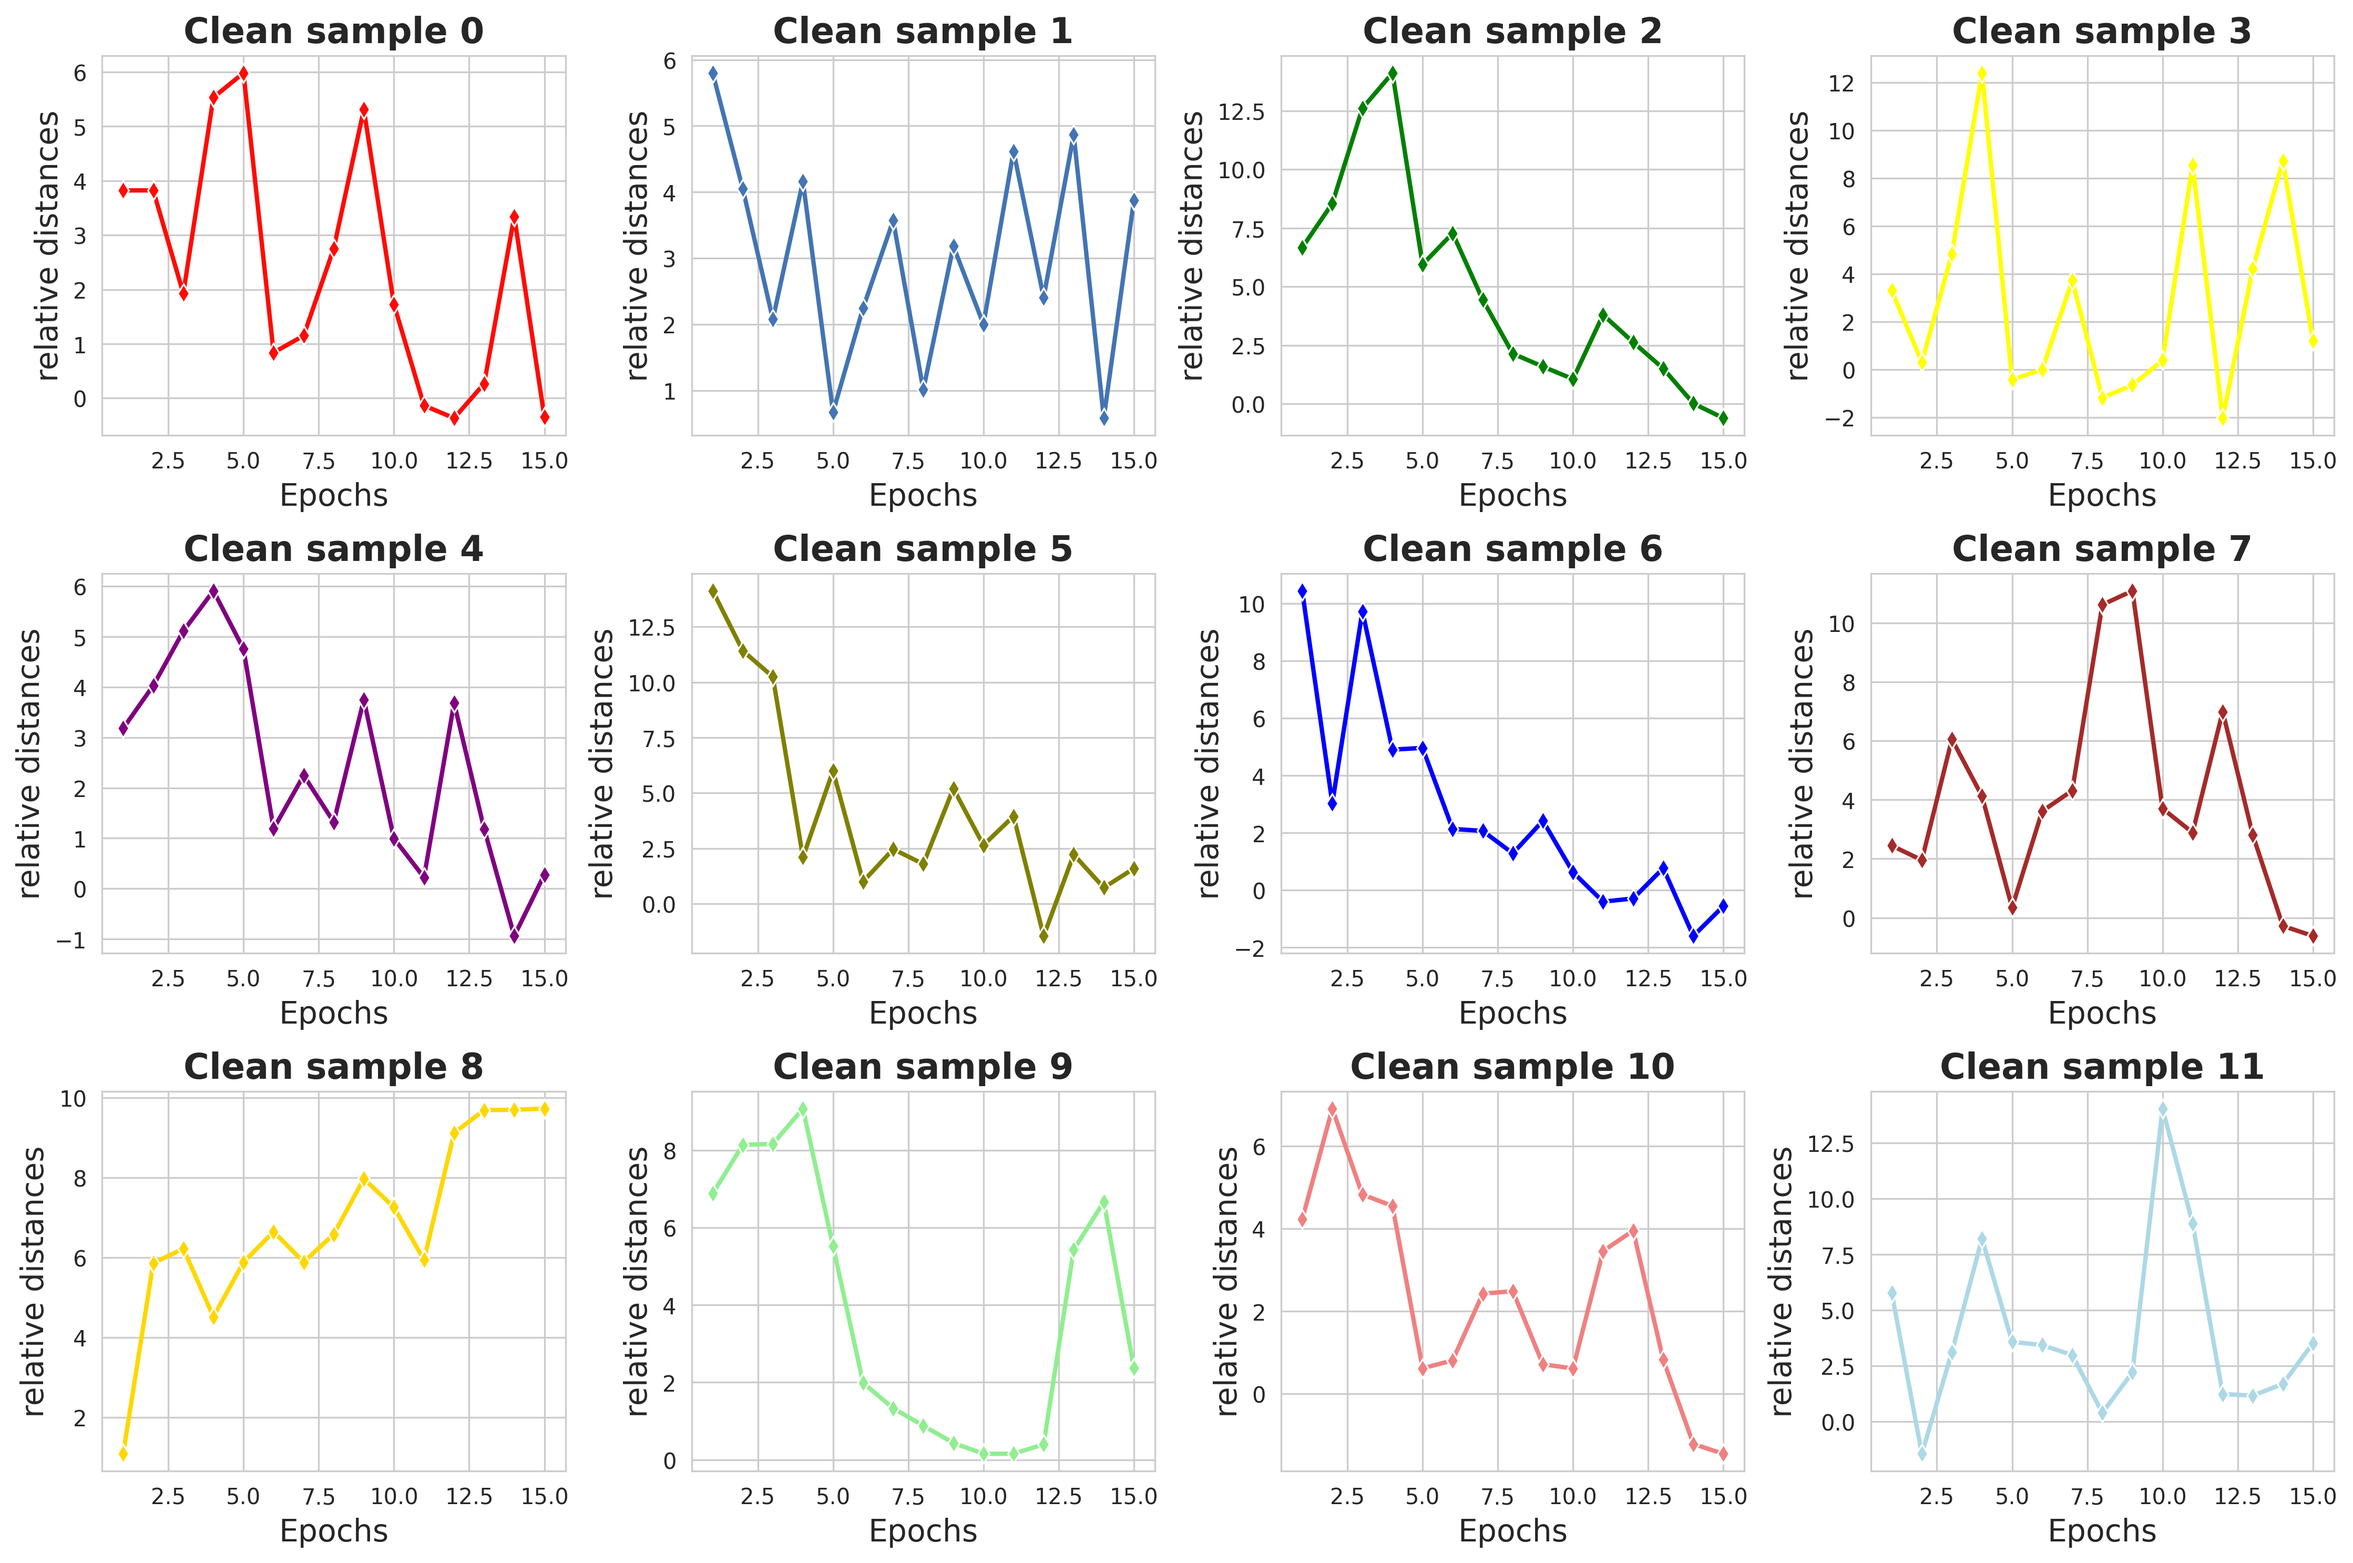
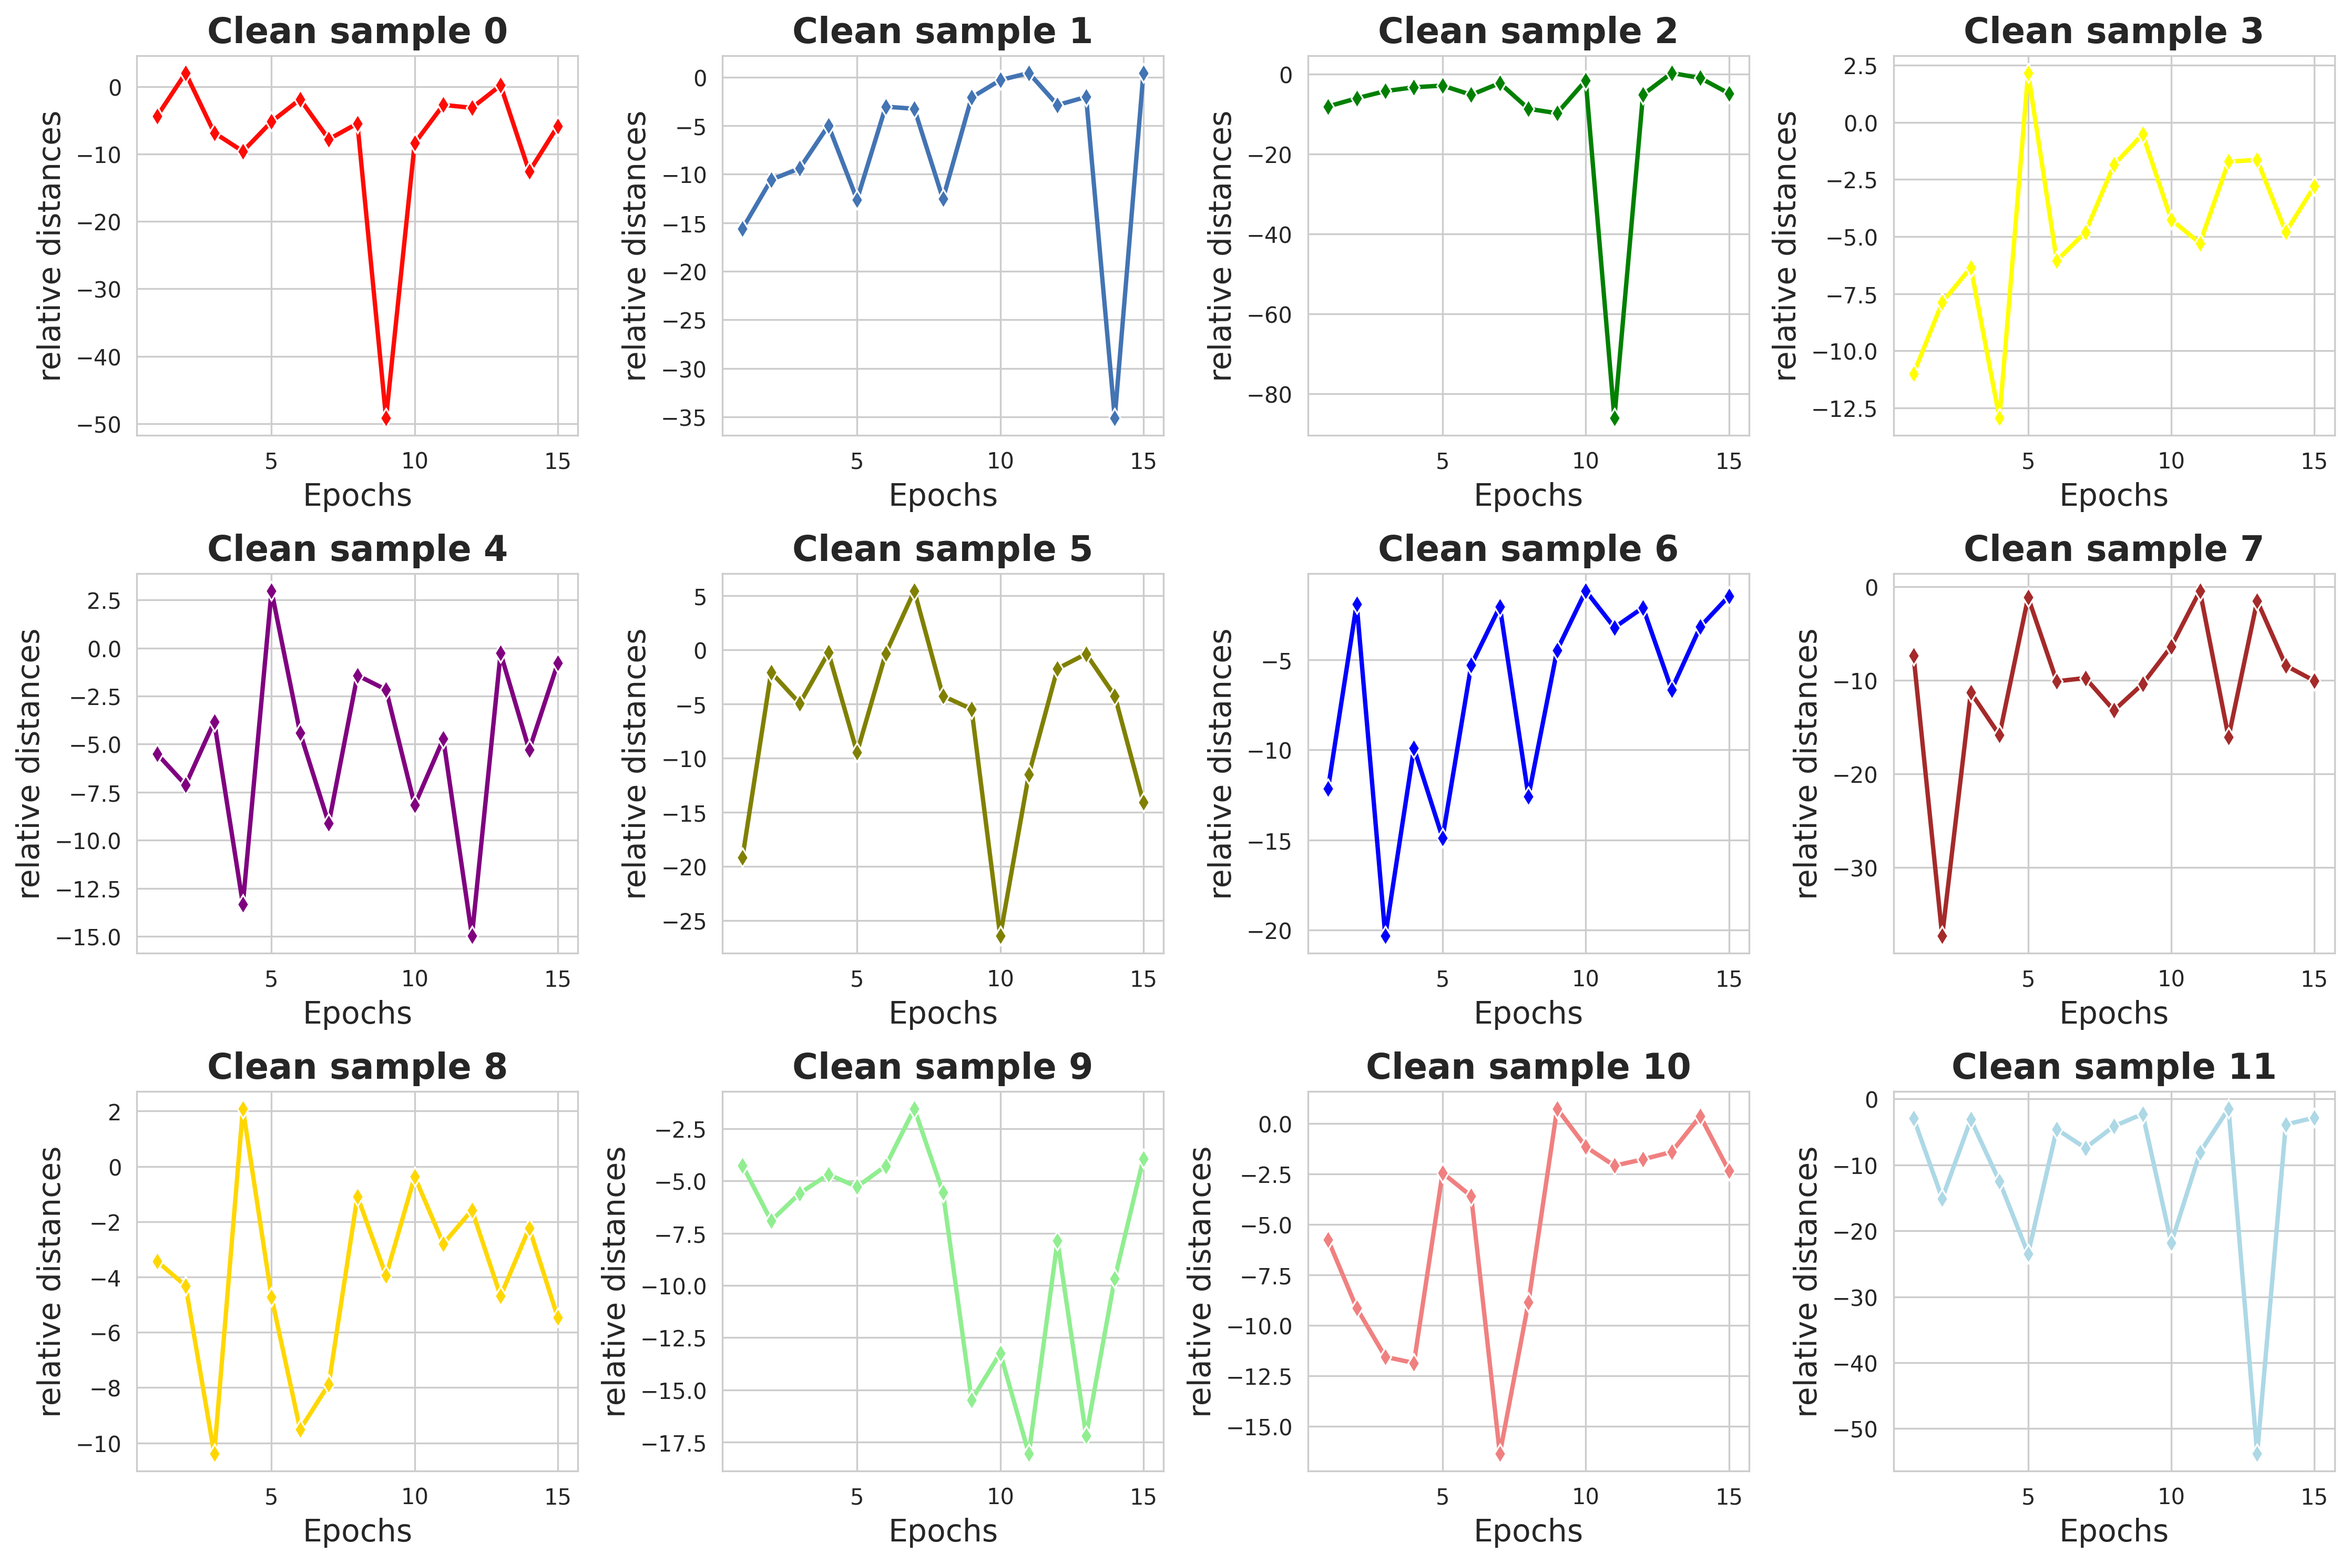
added experimental results

diff --git a/NoiseDataset.py b/NoiseDataset.py
@@ -183,14 +183,15 @@ class NoisyLabelsDatasetManager(Dataset):
     def get_corrupted_indices(self):
         return self.corrupted_indices
     
-    def take_first_n_noise_samples(self, n):
-        # Calcola gli indici dei campioni in cui l'etichetta reale non corrisponde all'etichetta falsa
-        matching_indices = np.where(self.real_labels != self.fake_labels)[0][:n]
+    def take_random_n_noise_samples(self, n):
+        # Seleziona casualmente n campioni in cui l'etichetta reale non corrisponde a quella falsa
+        matching_indices = np.where(self.real_labels != self.fake_labels)[0]
+        selected_indices = np.random.choice(matching_indices, size=n, replace=False)
         
         # Prepara i dati e le etichette per i campioni selezionati
-        selected_data = [self.dataset[i][0] for i in matching_indices]
-        selected_real_labels = self.real_labels[matching_indices]
-        selected_fake_labels = self.fake_labels[matching_indices]
+        selected_data = [self.dataset[i][0] for i in selected_indices]
+        selected_real_labels = self.real_labels[selected_indices]
+        selected_fake_labels = self.fake_labels[selected_indices]
         
         # Converte le etichette in tensori di PyTorch
         selected_real_labels_tensor = torch.tensor(selected_real_labels, dtype=torch.long)
@@ -201,14 +202,15 @@ class NoisyLabelsDatasetManager(Dataset):
         
         return selected_dataset
     
-    def take_first_n_clean_samples(self, n):
-        # Calcola gli indici dei campioni in cui l'etichetta reale non corrisponde all'etichetta falsa
-        matching_indices = np.where(self.real_labels == self.fake_labels)[0][:n]
+    def take_random_n_clean_samples(self, n):
+        # Seleziona casualmente n campioni in cui l'etichetta reale corrisponde a quella falsa
+        matching_indices = np.where(self.real_labels == self.fake_labels)[0]
+        selected_indices = np.random.choice(matching_indices, size=n, replace=False)
         
         # Prepara i dati e le etichette per i campioni selezionati
-        selected_data = [self.dataset[i][0] for i in matching_indices]
-        selected_real_labels = self.real_labels[matching_indices]
-        selected_fake_labels = self.fake_labels[matching_indices]
+        selected_data = [self.dataset[i][0] for i in selected_indices]
+        selected_real_labels = self.real_labels[selected_indices]
+        selected_fake_labels = self.fake_labels[selected_indices]
         
         # Converte le etichette in tensori di PyTorch
         selected_real_labels_tensor = torch.tensor(selected_real_labels, dtype=torch.long)
@@ -218,7 +220,7 @@ class NoisyLabelsDatasetManager(Dataset):
         selected_dataset = NoisyLabelsDataset(dataset=selected_data, real_labels=selected_real_labels_tensor, fake_labels=selected_fake_labels_tensor)
         
         return selected_dataset
-
+    
     def divide_samples(self):
         # Split the dataset into two: one where real_label == fake_label and another where they don't match
         matching_indices = np.where(self.real_labels == self.fake_labels)[0]
@@ -408,6 +410,58 @@ def compute_label_coherence_score(model, mu_c_tensor, dataloader, norm_factor):
             d_min, _ = torch.min(d_remaining, dim=1)  # find the minimum distance centroid from the remaining ones
         
             coherence_count += (d_min == real_centroid_distances).sum().item()
+
+    return coherence_count / norm_factor
+
+def compute_label_coherence_for_noisy_outliers(model, mu_c_tensor, dataloader):
+    global features
+    features = FeaturesHook()
+
+    # Aggiungi l'hook al penultimo layer del modello
+    handle_F = select_model(mode)
+    coherence_count=0
+    num_classes = len(mu_c_tensor)
+    norm_factor=0
+
+    model.eval()
+    for idx, (inputs, targets) in enumerate(dataloader):
+        with torch.no_grad():
+            inputs = inputs.to(device)
+            fake_targets = targets[:,1:,:].squeeze().to(device)
+            real_targets = targets[:,:1,:].squeeze().to(device)
+            outputs = model(inputs)
+
+            features_batch = features.features_F[-1].squeeze()
+            batch_size=len(features_batch)
+
+            # Reset delle liste di features per il prossimo batch
+            features.features_F = []
+            features.clear()
+
+            distances = torch.cdist(features_batch, mu_c_tensor)  # calcola tensore delle distanze [B,classes]
+            
+            centroid_distance = distances[torch.arange(batch_size), fake_targets]  # take distance from 'fake' label class centoroid
+            real_centroid_distances = distances[torch.arange(batch_size), real_targets] # take distance from real label class centoroid
+            
+            mask = torch.ones(distances.shape, dtype=bool)
+            mask[torch.arange(batch_size), fake_targets] = False  # create a mask for deleting extracted label centroid distances
+            d_remaining = distances[mask].view(batch_size, num_classes-1) # take the rest of distances
+            d_min, _ = torch.min(d_remaining, dim=1)  # find the minimum distance centroid from the remaining ones
+
+            distance_batch= d_min - centroid_distance
+
+            # Select only samples where the difference is greater than 0
+            valid_samples_mask = distance_batch < 0
+            valid_real_centroid_distances = real_centroid_distances[valid_samples_mask]
+
+            # Update the coherence count by comparing real centroid distances with the minimum distances
+            coherence_count += (d_min[valid_samples_mask] == valid_real_centroid_distances).sum().item()
+
+            # Update the normalization factor based on the number of valid samples
+            norm_factor += valid_samples_mask.sum().item()
+
+    # Return the coherence count normalized by the number of valid samples
+    return coherence_count / norm_factor if norm_factor > 0 else 0
 
     return coherence_count / norm_factor
 
@@ -719,7 +773,7 @@ def get_distance_n_noisy_samples(n,model,train_dataset, mu_c_train):
     handle_F = select_model(mode)
     
     # Take first n noisy samples from trainining dataset
-    tracked_noise_samples= train_dataset.take_first_n_noise_samples(n)
+    tracked_noise_samples= train_dataset.take_random_n_noise_samples(n)
     tracked_noise_samples_loader=DataLoader(tracked_noise_samples, batch_size=1, num_workers=2)
 
     # foreach sample take its features and compute relative distance ( real - fake )
@@ -741,7 +795,7 @@ def get_distance_n_noisy_samples(n,model,train_dataset, mu_c_train):
                 dist[i]=torch.dist(current_features_F,mu_c_train[i]).item()
             near_centroid_dist=min(dist, key=lambda x: dist[x])
 
-            distance_dict[str(idx)]=  torch.dist(current_features_F,mu_c_train[y_fake.item()]).item() - near_centroid_dist 
+            distance_dict[str(idx)] = near_centroid_dist - torch.dist(current_features_F,mu_c_train[y_fake.item()]).item()
             
             features.clear()
 
@@ -763,7 +817,7 @@ def get_distance_n_samples(n,model,train_dataset, mu_c_train):
     handle_F = select_model(mode)
     
     # Take first n noisy samples from trainining dataset
-    tracked_clean_samples= train_dataset.take_first_n_clean_samples(n)
+    tracked_clean_samples= train_dataset.take_random_n_clean_samples(n)
     tracked_clean_samples_loader=DataLoader(tracked_clean_samples, batch_size=1, num_workers=2)
 
     # foreach sample take its features and compute relative distance ( real - fake )
@@ -774,7 +828,7 @@ def get_distance_n_samples(n,model,train_dataset, mu_c_train):
             y_real = targets[:,:1,:].squeeze().to(device)
             y_fake = targets[:,1:,:].squeeze().to(device)
             if y_fake != y_real:
-                raise ValueError("Bad extraction in  'take_first_n_clean_samples' function")
+                raise ValueError("Bad extraction in  'take_random_n_clean_samples' function")
             inputs = inputs.to(device)
             outputs = model(inputs)
             current_features_F = features.features_F[-1].squeeze()
@@ -785,7 +839,7 @@ def get_distance_n_samples(n,model,train_dataset, mu_c_train):
                 dist[i]=torch.dist(current_features_F,mu_c_train[i]).item()
             near_centroid_dist=min(dist, key=lambda x: dist[x])
 
-            distance_dict[str(idx)]=  torch.dist(current_features_F,mu_c_train[y_real.item()]).item() - near_centroid_dist
+            distance_dict[str(idx)]=  near_centroid_dist - torch.dist(current_features_F,mu_c_train[y_real.item()]).item()
             features.clear()
 
     return distance_dict
@@ -1096,25 +1150,38 @@ def show_centroid_distances(weighted_dist, normal_dist,mode,version,dataset_name
 
 def show_noise_coherence(info_dict, mode, version, dataset_name):
     sns.set_style("whitegrid")  # Stile con griglia bianca
-    sns.set_palette("Set2")  
-    fig, ax = plt.subplots(1, 1, figsize=(12, 10))  
+    sns.set_palette("Set2")  # Set palette per i colori
 
-    # Disegna la coerenza sul singolo asse
+    plt.figure(figsize=(10, 6))  # Definisci una figura di dimensioni appropriate
+
+    # Linea per la coerenza dei campioni rumorosi
     sns.lineplot(x=np.arange(1, len(info_dict['coherence']) + 1),
                  y=info_dict['coherence'],
-                 ax=ax,  
                  marker="o",
                  linewidth=2,
                  color='blue',
                  label='Coherence')
 
-    ax.set_title(f'Coherence Metric of noisy samples')
-    ax.set_xlabel('Epoch')
-    ax.set_ylabel('percentage of sample coherent with real label')
-    ax.legend()
+    # Linea per la coerenza degli outliers rumorosi
+    sns.lineplot(x=np.arange(1, len(info_dict['outliers_coherence']) + 1),
+                 y=info_dict['outliers_coherence'],
+                 marker="o",
+                 linewidth=2,
+                 color='red',
+                 label='Outliers Coherence')
 
+    # Imposta titolo, etichette e legenda
+    plt.title(f'Coherence Metrics for Noisy Samples and Outliers')
+    plt.xlabel('Epoch')
+    plt.ylabel('% Sample Coherent with Real Label')
+    plt.legend()
+
+    # Salva il grafico in un file PNG
     plt.tight_layout()
     plt.savefig(f'coherence_epoch_{len(info_dict["coherence"])}_{mode}{version}_{dataset_name}.png', dpi=300, bbox_inches='tight')
+
+    # Chiudi la figura per liberare memoria
+    plt.close()
 
 ##################################################################################################################################################
 #define dataset, model, its version
@@ -1164,6 +1231,7 @@ info_dict = {
         'mu_c_weighted':[],
         'mu_c_clean':[],
         'coherence':[],
+        'outliers_coherence':[],
         #'clean_mem':[],
         #'fake_mem':[],
 }
@@ -1249,7 +1317,7 @@ for i in range(epochs):
 
     norm_factor=len(complete_noisy_labels_dataset)
     label_coherence_score = compute_label_coherence_score(model, mu_c_train, complete_noisy_dataloader, norm_factor)
-
+    label_coherence_of_nearest_centroid = compute_label_coherence_for_noisy_outliers(model, mu_c_train, complete_noisy_dataloader)
     
     # Noise Memorization
     #clean_label_memorization = compute_memorization(model, clean_dataloader, mu_c_test)
@@ -1276,6 +1344,7 @@ for i in range(epochs):
     info_dict['mu_c_weighted'].append(mu_c_weighted)
     info_dict['mu_c_clean'].append(mu_c_clean)
     info_dict['coherence'].append(label_coherence_score)
+    info_dict['outliers_coherence'].append(label_coherence_of_nearest_centroid)
     #info_dict['mem'].append(memorization)
     #info_dict['clean_mem'].append(clean_label_memorization)
     #info_dict['fake_mem'].append(noise_label_memorization)
